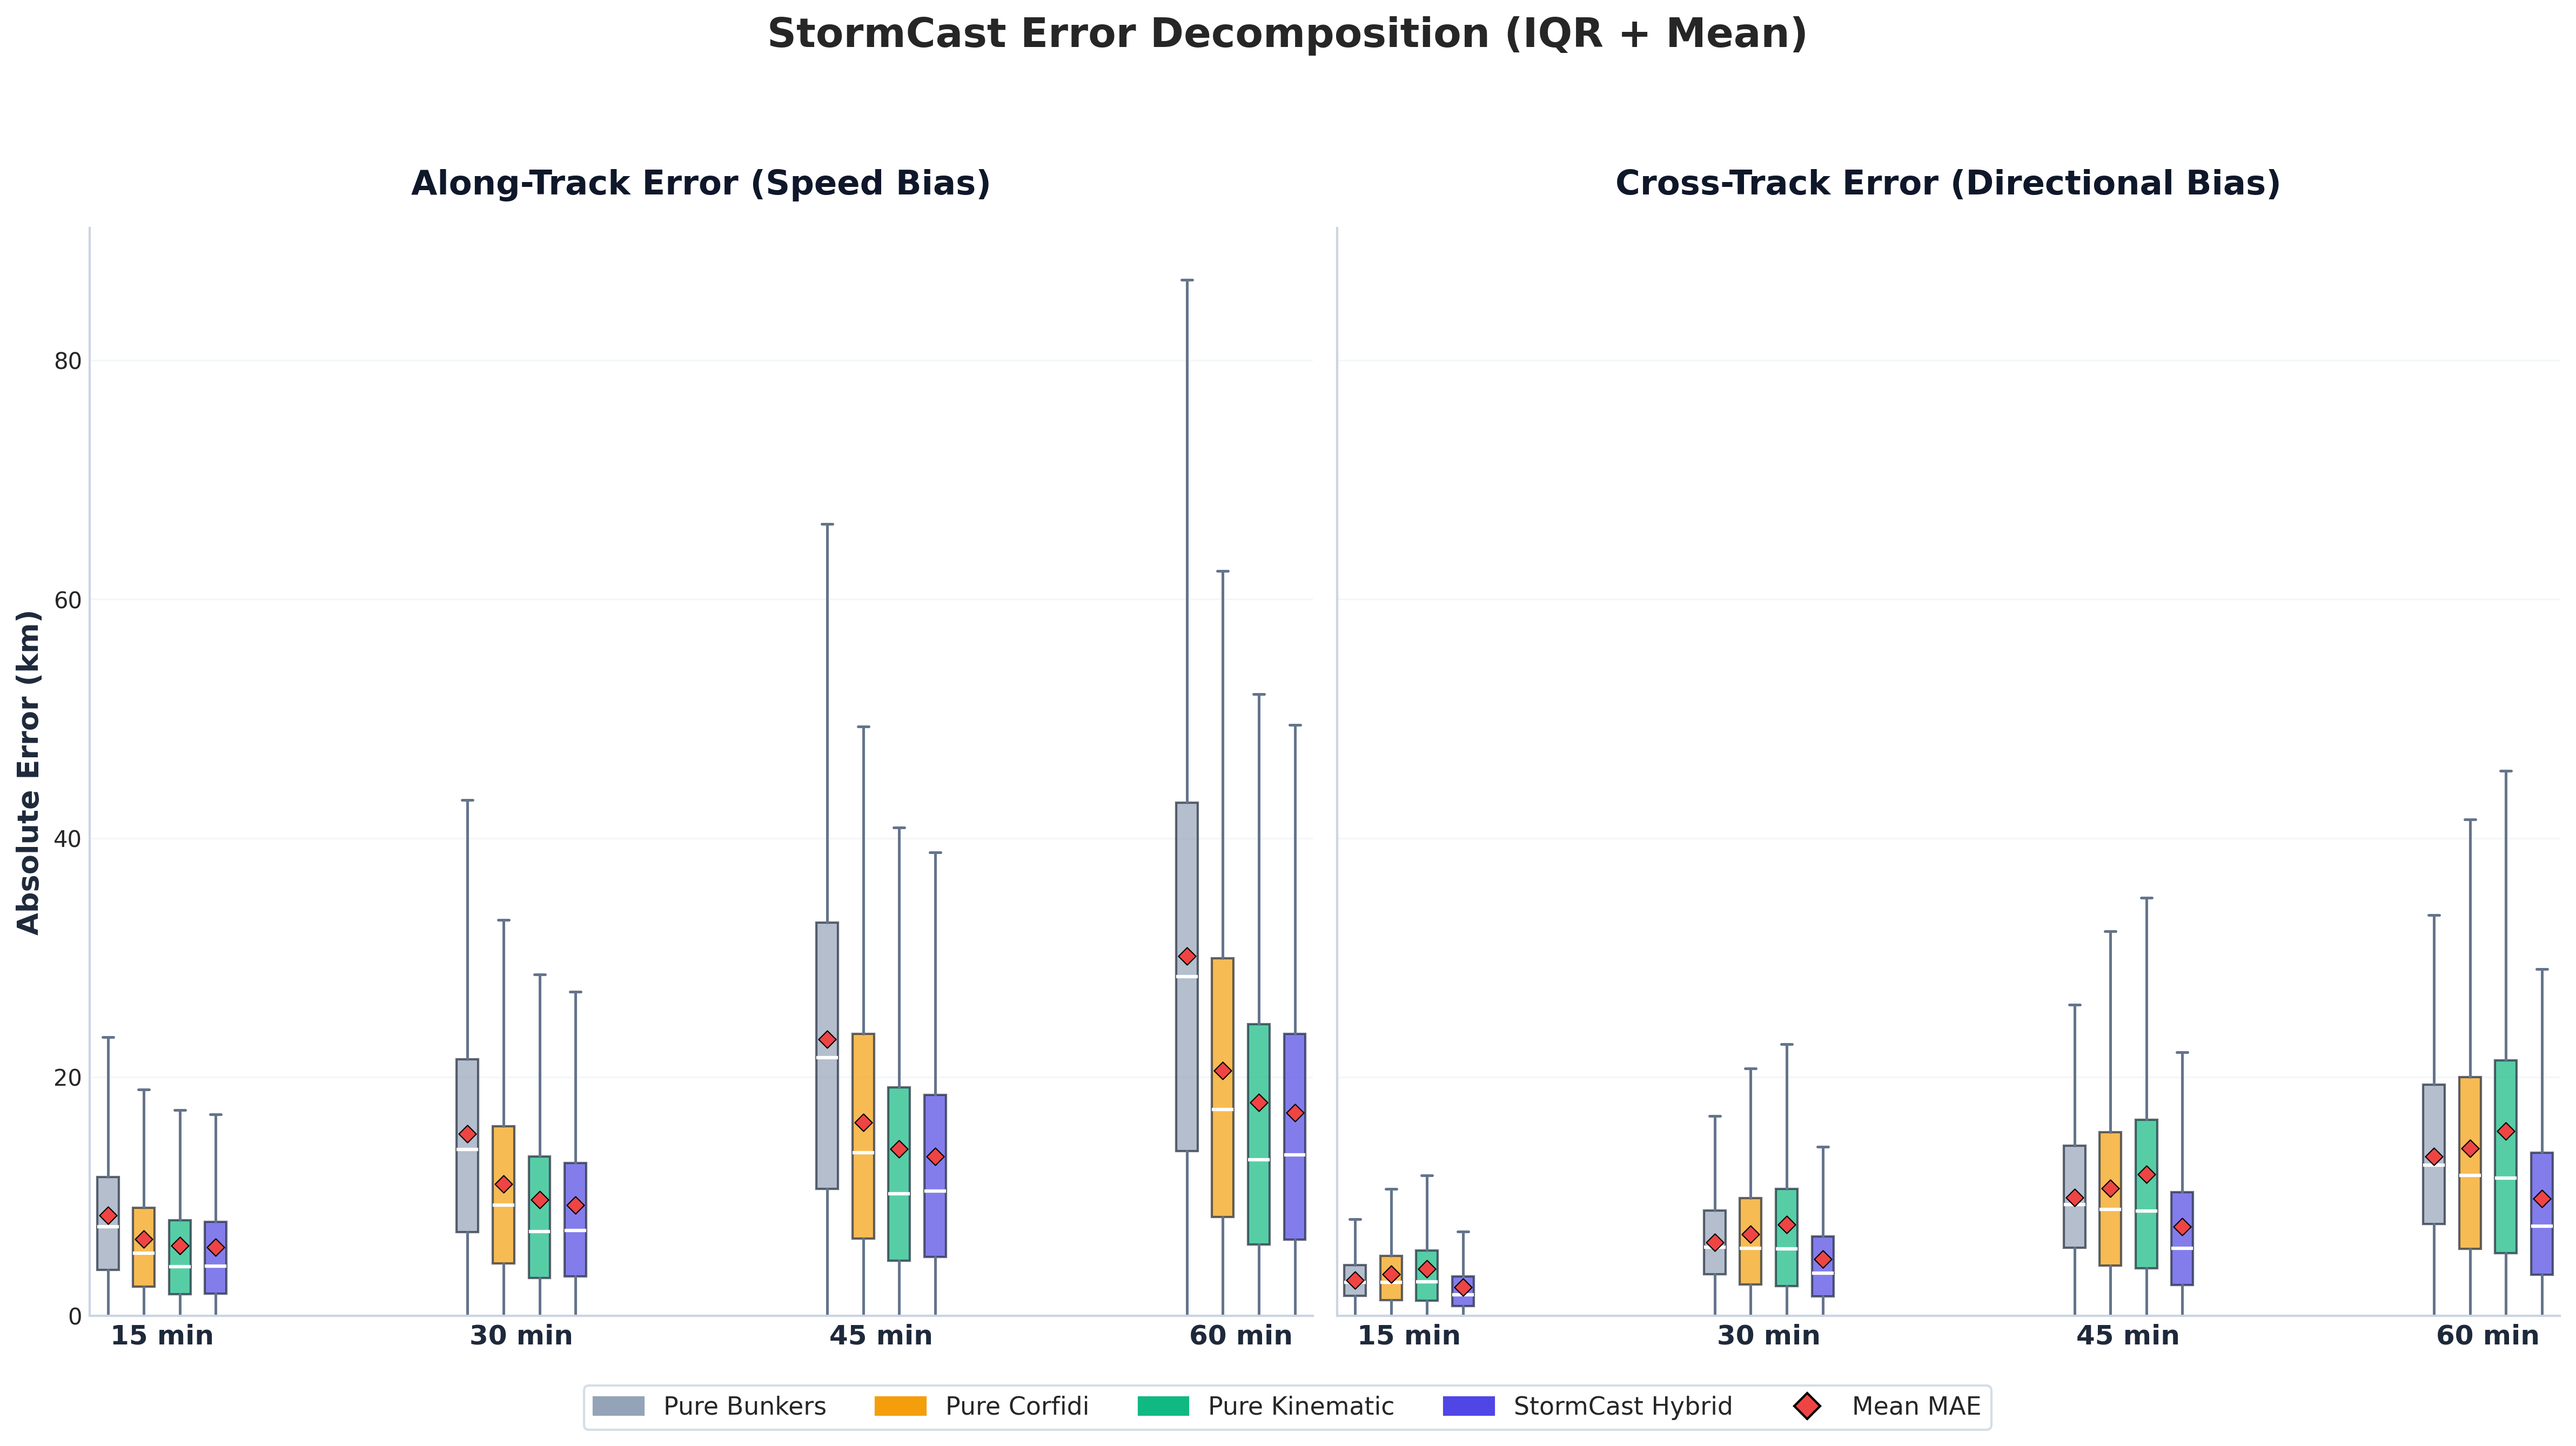
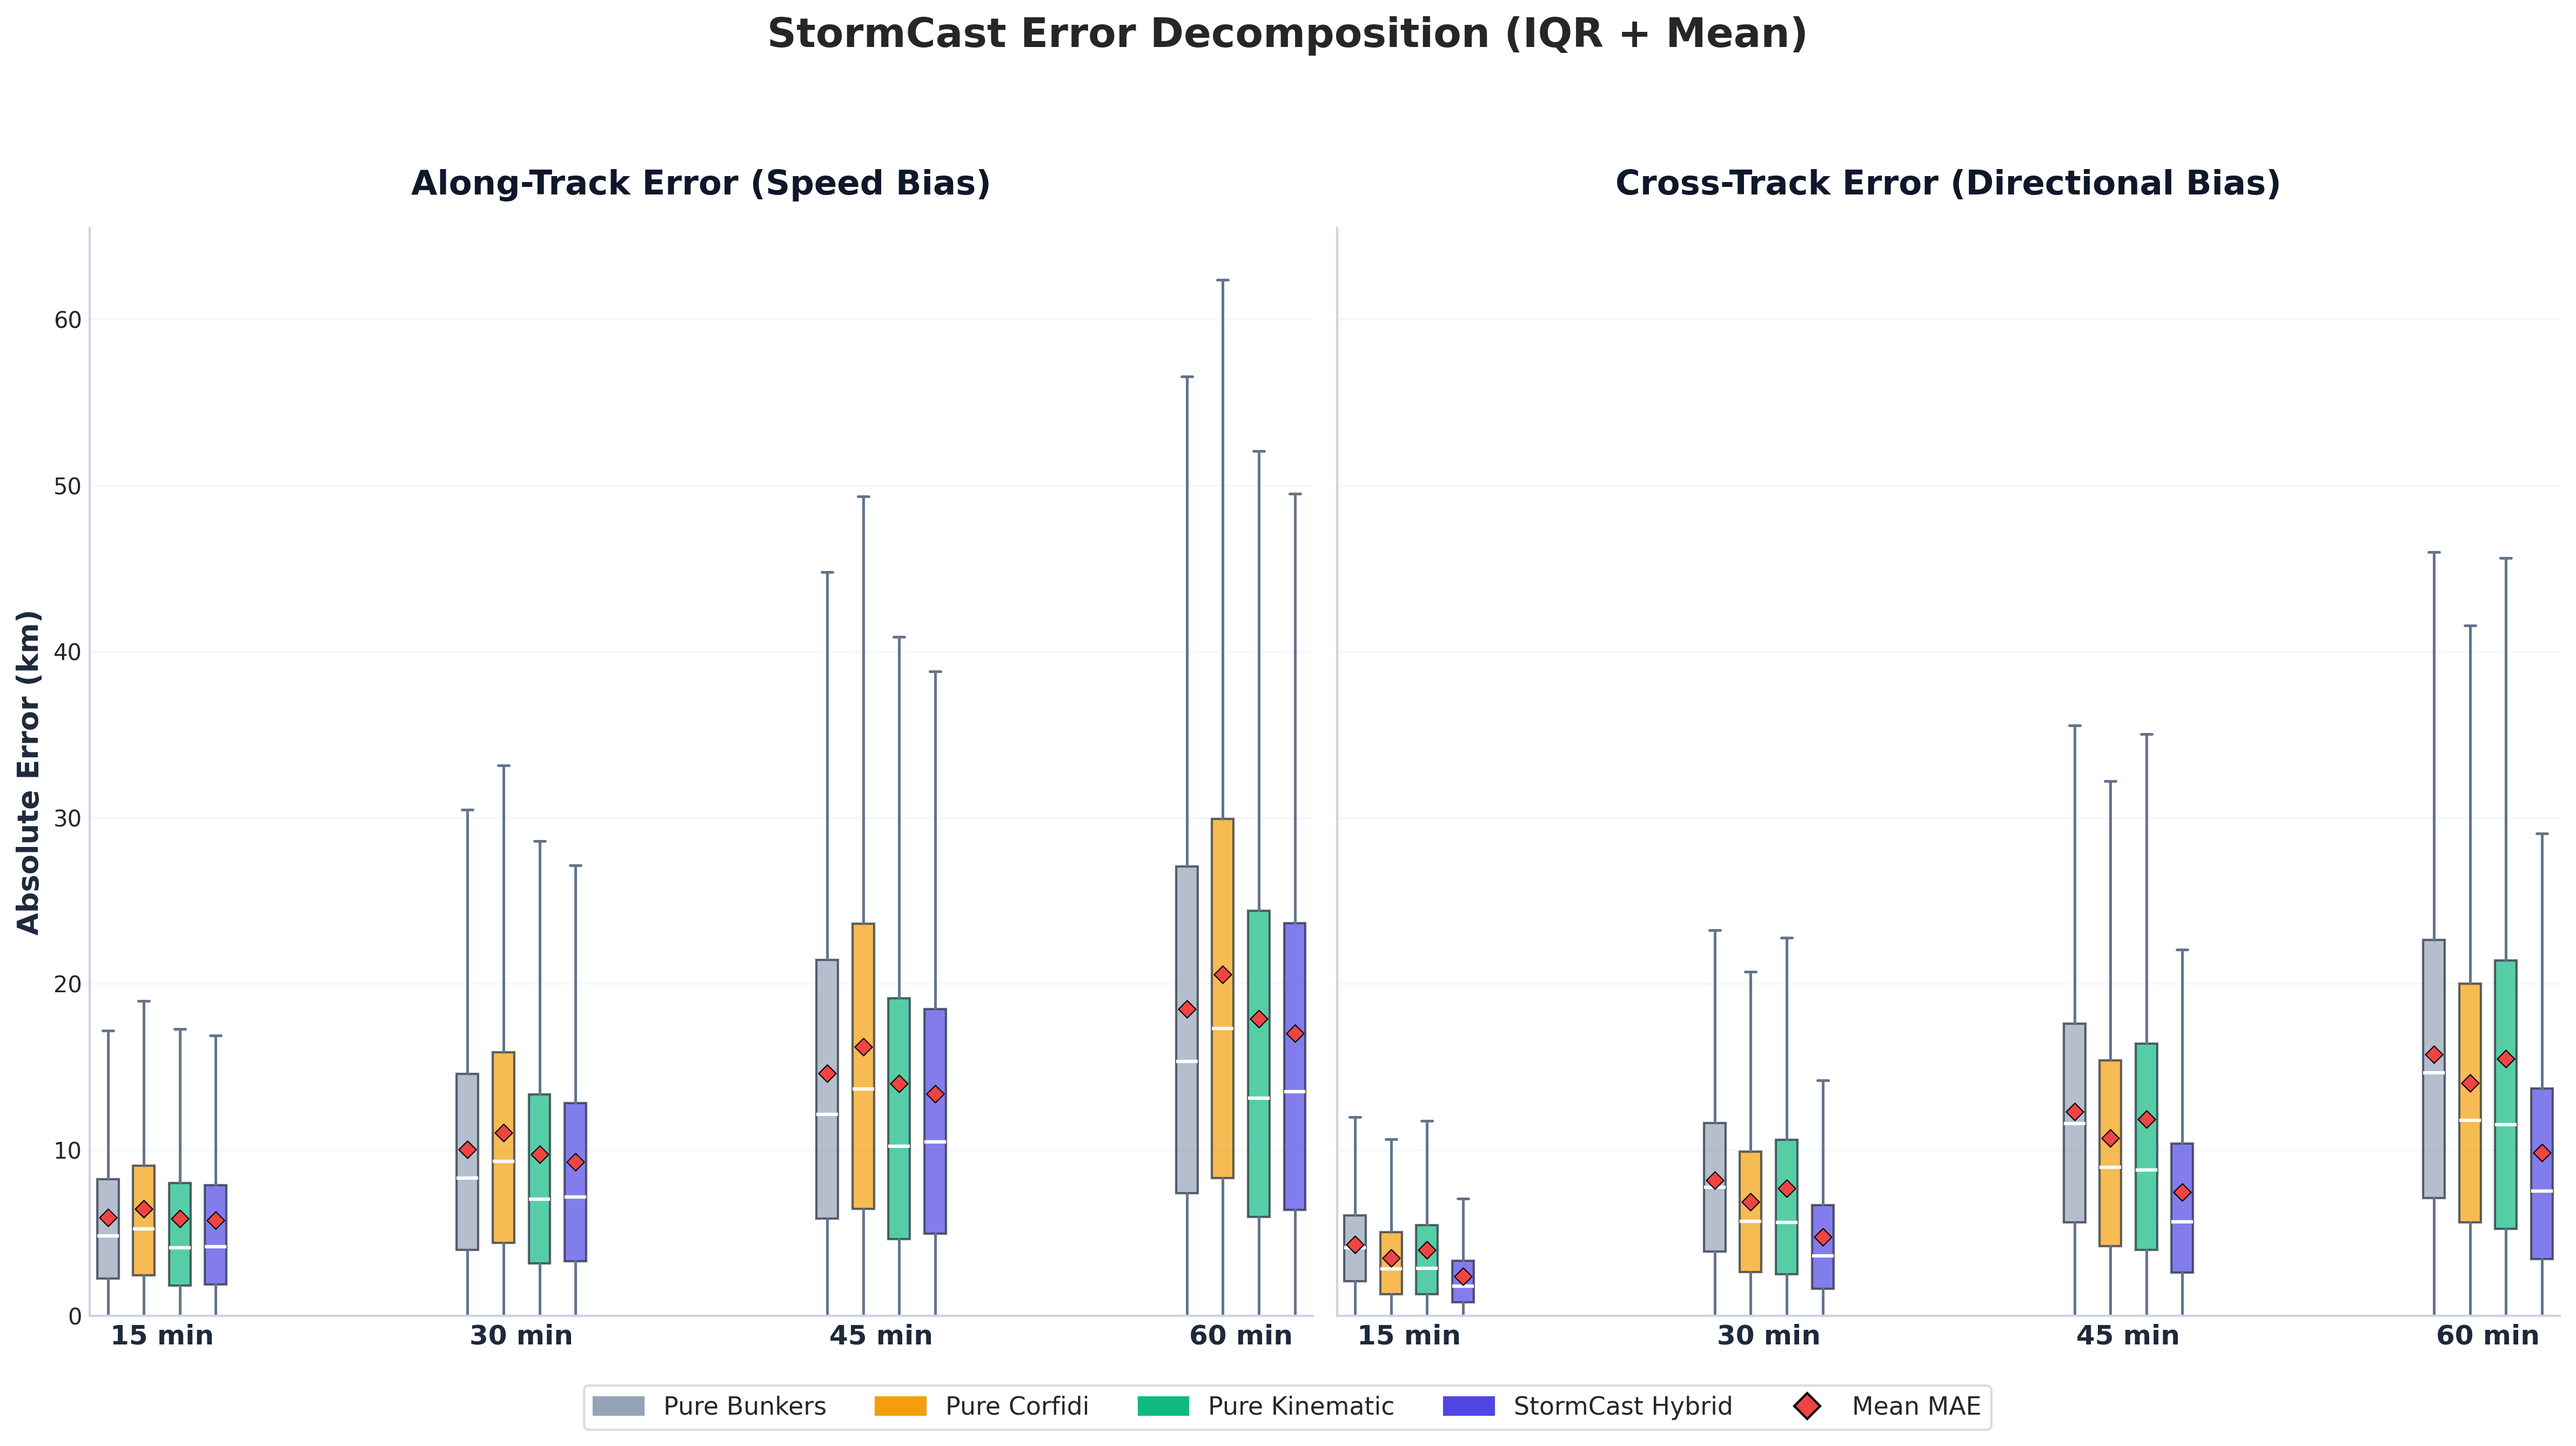
Update bunkers evaluation method to be raw bunkers, not StormCast-modified bunkers

diff --git a/src/StormCast/diagnostics.py b/src/StormCast/diagnostics.py
@@ -249,6 +249,50 @@ def compute_bunkers_motion(
     v_bunkers = v_mean + d * n_v
     
     return (u_bunkers, v_bunkers)
+
+def compute_raw_bunkers_motion(
+    profile: EnvironmentProfile,
+    right_mover: bool = True
+) -> Tuple[float, float]:
+    """
+    Compute Bunkers-type deviant storm motion estimate using the raw Bunkers et al. (2000) method.
+    Fixed 0-6 km mean wind, 0-6 km shear, and constant 7.5 m/s deviation.
+    """
+    # 0-6 km mean (sfc to 500mb approximation using 850, 700, 500)
+    u_vals, v_vals = [], []
+    for level in [850, 700, 500]:
+        if level in profile.winds:
+            u, v = profile.winds[level]
+            u_vals.append(u)
+            v_vals.append(v)
+            
+    if not u_vals:
+        return (0.0, 0.0)
+        
+    u_mean = sum(u_vals) / len(u_vals)
+    v_mean = sum(v_vals) / len(v_vals)
+    
+    # 0-6 km shear (850 to 500mb approximation)
+    u_base, v_base = profile.get_wind(850)
+    u_top, v_top = profile.get_wind(500)
+    shear_u = u_top - u_base
+    shear_v = v_top - v_base
+    
+    shear_mag = _vector_magnitude(shear_u, shear_v)
+    if shear_mag < 1e-10:
+        return (u_mean, v_mean)
+        
+    n_u, n_v = _rotate_vector_90(shear_u, shear_v, clockwise=right_mover)
+    n_u, n_v = _unit_vector(n_u, n_v)
+    
+    # Canonical deviation
+    d = 7.5
+    
+    u_bunkers = u_mean + d * n_u
+    v_bunkers = v_mean + d * n_v
+    
+    return (u_bunkers, v_bunkers)
+
 def compute_corfidi_motion(
     profile: EnvironmentProfile,
     right_mover: bool = True

diff --git a/scripts/plot_baseline_iqr.py b/scripts/plot_baseline_iqr.py
@@ -16,6 +16,7 @@ from StormCast.diagnostics import (
     compute_storm_core_height,
     compute_adaptive_steering,
     compute_bunkers_motion,
+    compute_raw_bunkers_motion,
     compute_corfidi_motion
 )
 from StormCast.blending import (
@@ -75,7 +76,7 @@ def evaluate_single_file(file_path, mode="stormcast"):
                 h_core = compute_storm_core_height(step['properties'].get('p100EchoTop30'), step['properties'].get('EchoTop50'))
                 
                 if mode == "bunkers":
-                    v_final = compute_bunkers_motion(env, h_core)
+                    v_final = compute_raw_bunkers_motion(env)
                 elif mode == "corfidi":
                     v_final = compute_corfidi_motion(env)
                 elif mode == "kinematic":

diff --git a/scripts/plot_mae_by_hcore.py b/scripts/plot_mae_by_hcore.py
@@ -16,6 +16,7 @@ from StormCast.diagnostics import (
     compute_storm_core_height,
     compute_adaptive_steering,
     compute_bunkers_motion,
+    compute_raw_bunkers_motion,
     compute_corfidi_motion
 )
 from StormCast.blending import (
@@ -84,7 +85,7 @@ def evaluate_single_file(file_path, mode="stormcast"):
                 h_core = compute_storm_core_height(step['properties'].get('p100EchoTop30'), step['properties'].get('EchoTop50'))
                 
                 if mode == "bunkers":
-                    v_final = compute_bunkers_motion(env, h_core)
+                    v_final = compute_raw_bunkers_motion(env)
                 elif mode == "corfidi":
                     v_final = compute_corfidi_motion(env)
                 elif mode == "kinematic":

diff --git a/scripts/plot_error_decomposition.py b/scripts/plot_error_decomposition.py
@@ -16,6 +16,7 @@ from StormCast.diagnostics import (
     compute_storm_core_height,
     compute_adaptive_steering,
     compute_bunkers_motion,
+    compute_raw_bunkers_motion,
     compute_corfidi_motion
 )
 from StormCast.blending import (
@@ -90,7 +91,7 @@ def evaluate_single_file(file_path):
                 sc_state = StormState(x=kf.x, y=kf.y, u=v_sc[0], v=v_sc[1], h_core=h_core, track_history=hist_len, motion_jitter=jitter)
                 
                 # 2. Bunkers (Pure)
-                v_bnk = v_bunkers_guidance
+                v_bnk = compute_raw_bunkers_motion(env)
                 bnk_state = StormState(x=displacements[i][0], y=displacements[i][1], u=v_bnk[0], v=v_bnk[1], h_core=h_core)
                 
                 # 3. Kinematic (Pure)
